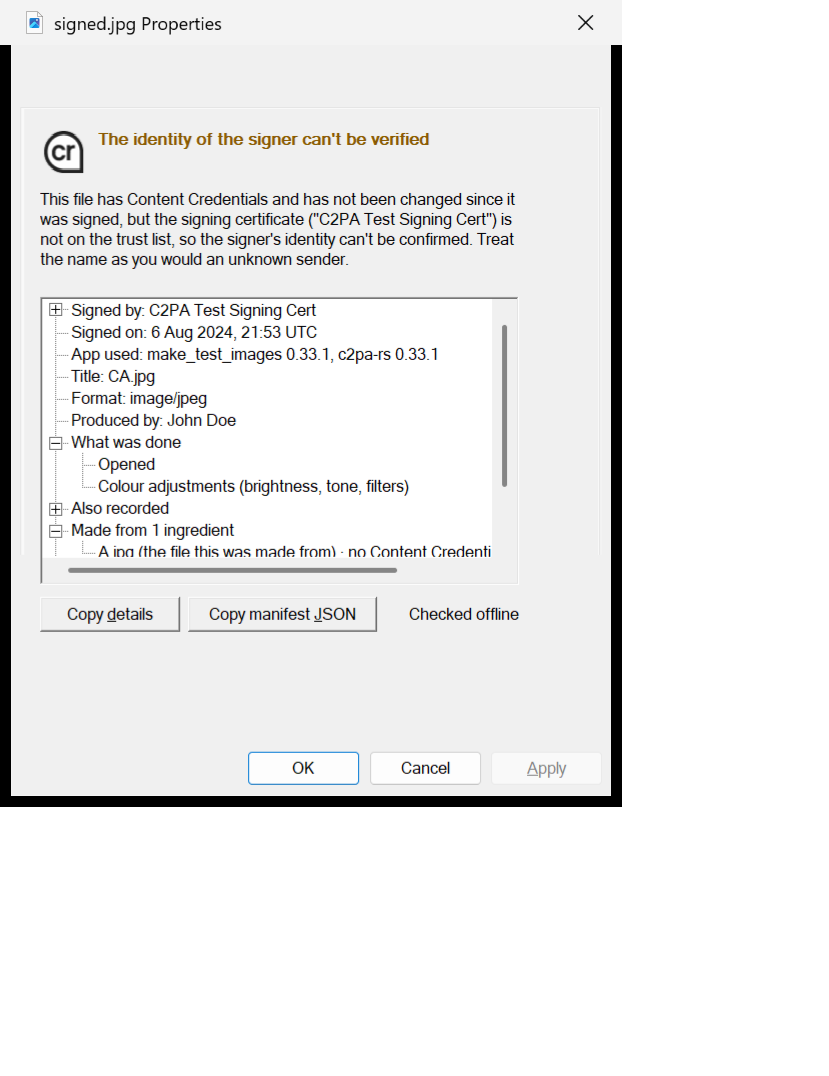
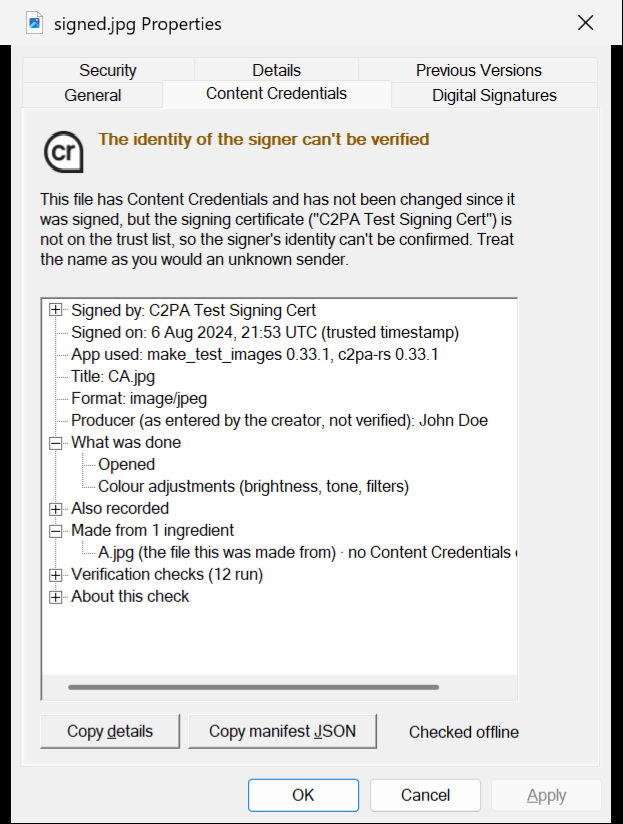
0.1.2

diff --git a/shellext/resource.h b/shellext/resource.h
@@ -11,5 +11,5 @@
 #define IDC_COPY_JSON     1006
 #define IDC_FOOT          1007
 
-#define C2PAVIEW_VERSION_STR    "0.1.1.0"
-#define C2PAVIEW_VERSION_NUM    0,1,1,0
+#define C2PAVIEW_VERSION_STR    "0.1.2.0"
+#define C2PAVIEW_VERSION_NUM    0,1,2,0
